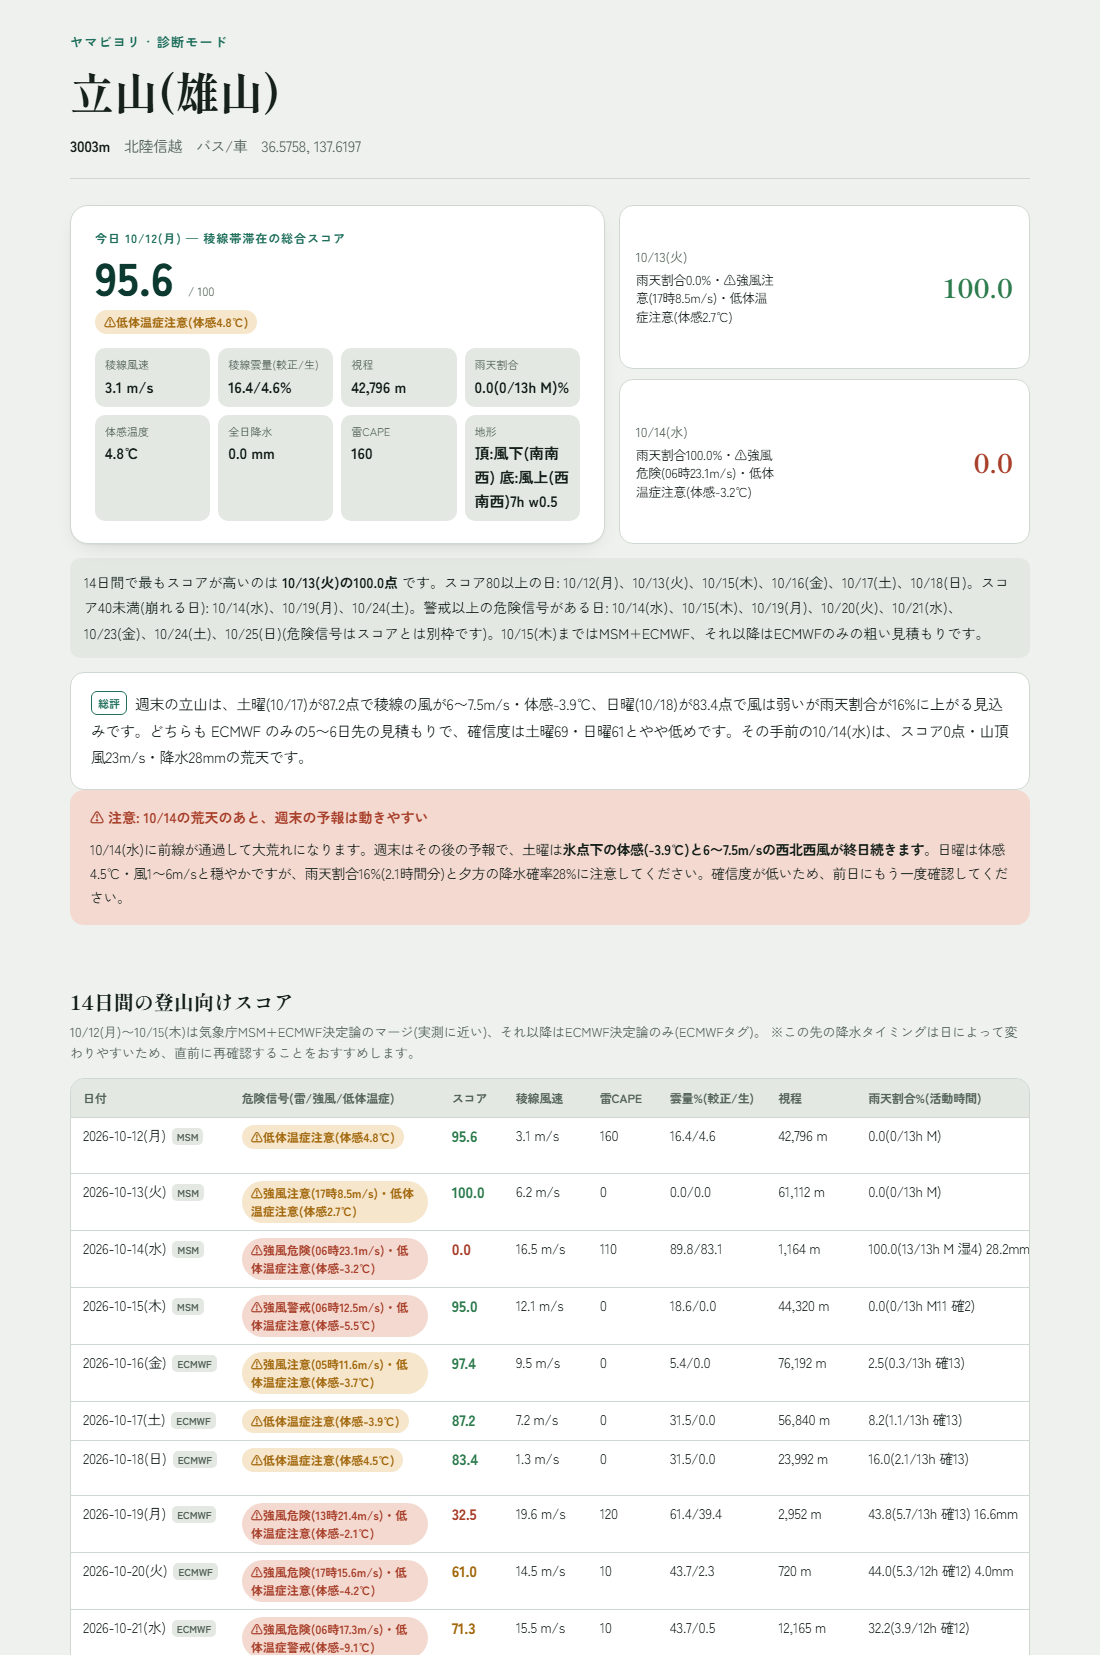
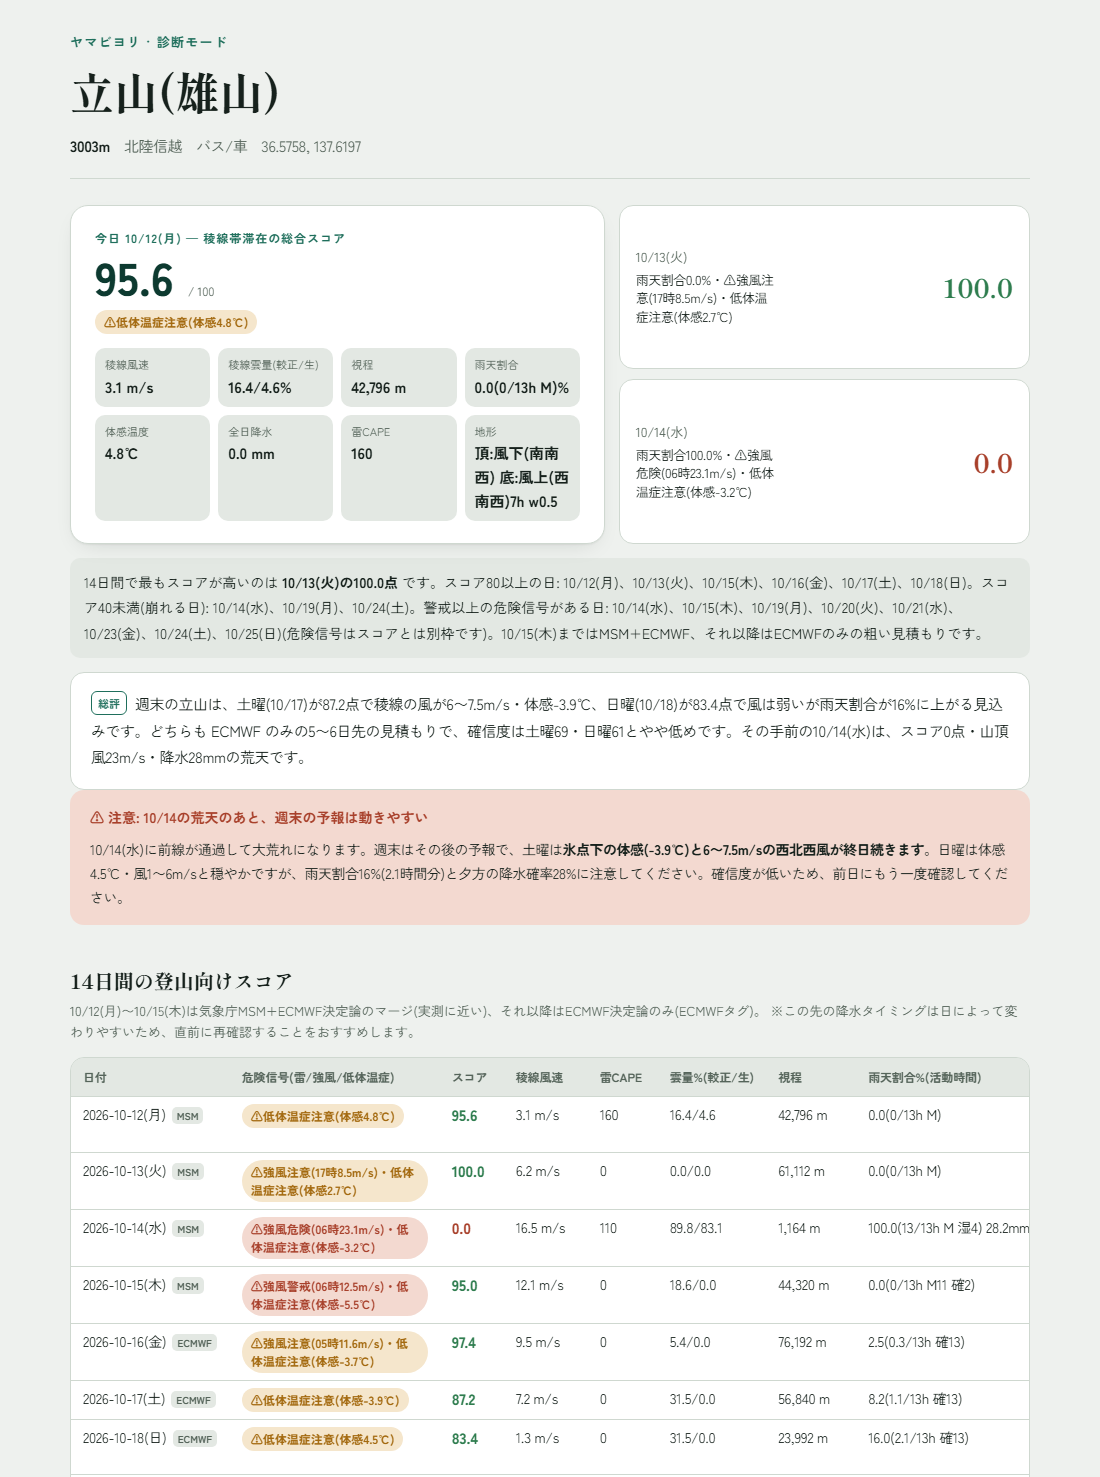
文書: README の探索・診断モードの画像の切り出し位置を修正
境目にカードの切れ端が写っていたため。

diff --git a/CHANGELOG.md b/CHANGELOG.md
@@ -4,6 +4,8 @@
 
 ## [Unreleased]
 
+- 2026-10-14: **README の探索・診断モードの画像を作り直した(貼り合わせの切り出し位置を直した。文書のみ)**。理由: 2か所を貼り合わせた境目に、前のカードの切れ端が細く写っていたため。
+
 - 2026-10-14: **README の3モードの節に、レポートの画像(`assets/mode_explore.png`・`mode_diagnosis.png`・`mode_gpx.png`)を載せた(文書のみ。コード・スコア・テストの動作は不変。版番号は上げていない)**。従来のテキスト出力の例は `<details>` に折りたたんで残した。理由: GitHub のトップで3モードの表示がテキストだけで、実際のレポートの見た目が伝わらなかったため。
 
 ## v1.8.0 — 2026-10-14
